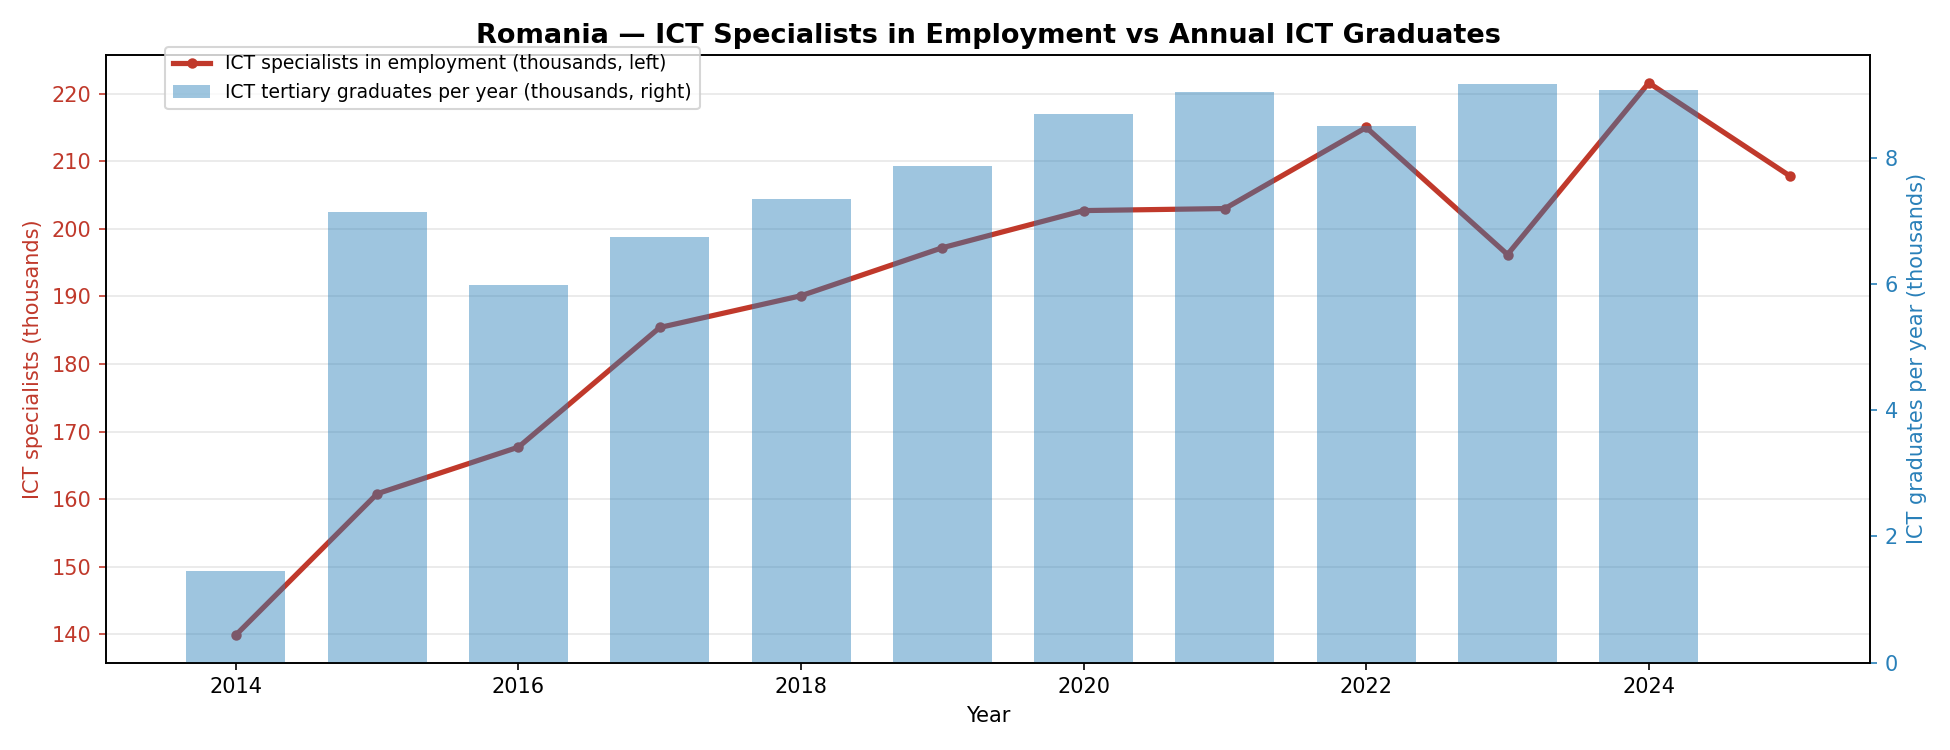
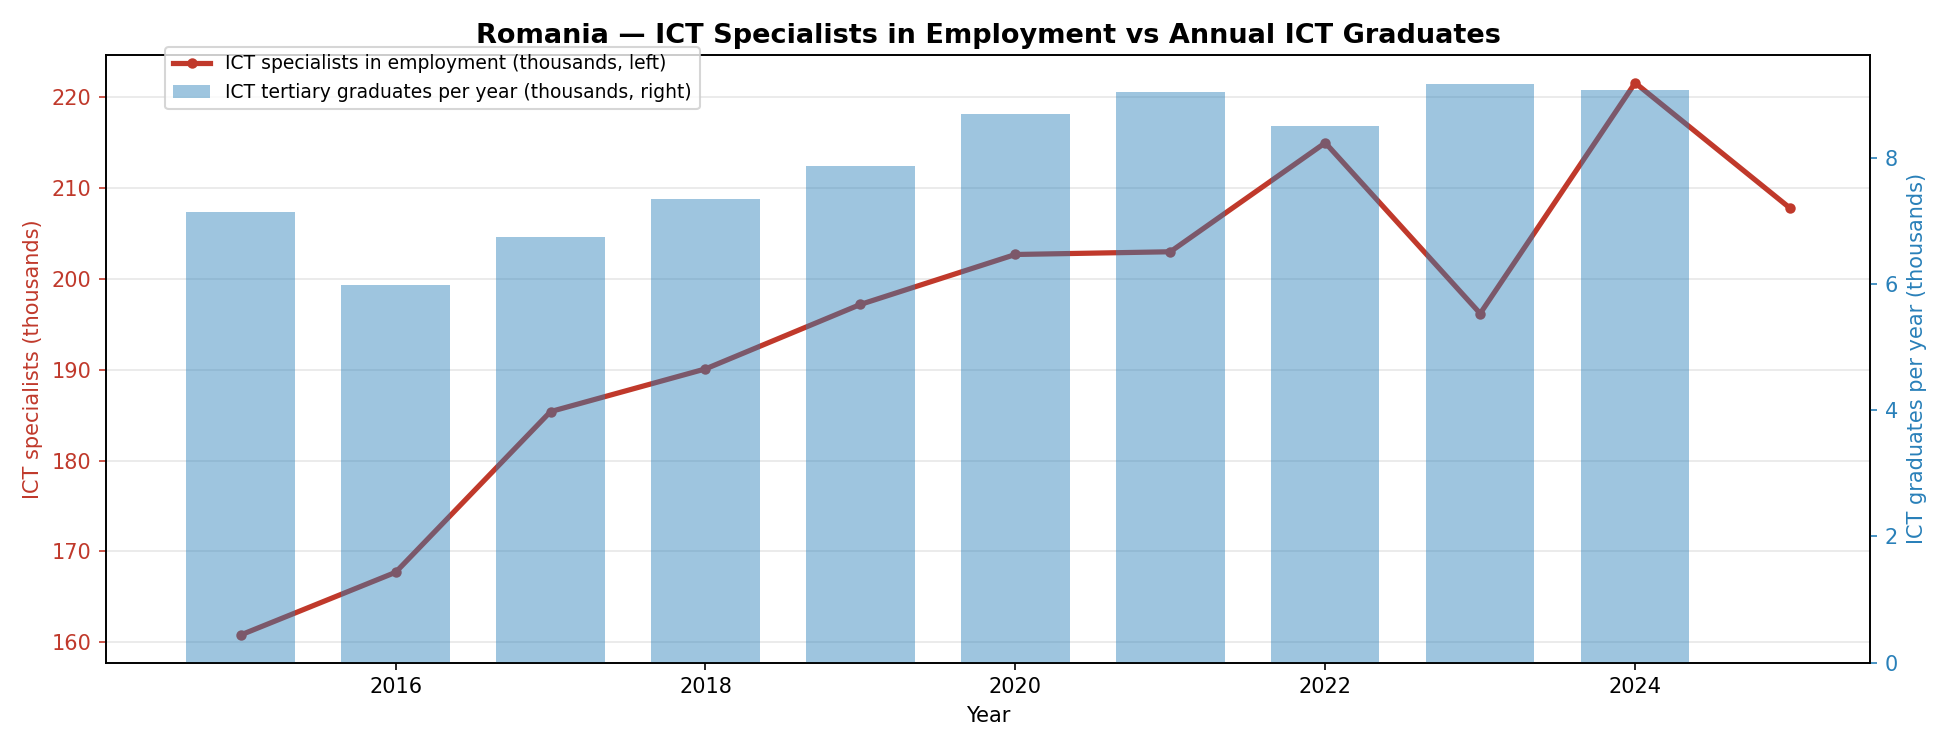
Drop 2014 from §4.3 supply/demand chart (ED7 coverage gap)
RO's 2013-2014 ICT-graduate counts in educ_uoe_grad02 (ED5-8) contain
only bachelor-level (ED6) graduates because master-level (ED7) is
reported as zero — a known Eurostat coverage gap, already flagged for
the 01b chart in §1. Starting at 2015 removes the artificial 5x jump
between 2014 and 2015 grads in 04e and aligns the chart with the start
of the reliable series. Specialists are also clipped to 2015 to keep
the two series visually aligned.

Updated §4.3 text to reframe the trend numbers off the 2015 baseline
(161k specialists → 222k by 2024, ~6-7k net new roles/yr vs ~9k grads/yr).

diff --git a/it-romania/04_wages_careers.py b/it-romania/04_wages_careers.py
@@ -233,9 +233,12 @@ df_gr = fetch_eurostat("educ_uoe_grad02", {
 })
 grads = to_year_indexed(df_gr)["RO"].dropna() / 1000.0   # to thousands
 
-# Use 2014+ to avoid the pre-2015 series-break low values
-grads = grads[grads.index >= 2014]
-spec_ths = spec_ths[spec_ths.index >= 2014]
+# Start at 2015: RO ICT-grads 2013-2014 contain only bachelor-level (ED6);
+# master-level (ED7) is reported as zero, a Eurostat coverage gap. The
+# 5x jump between 2014 and 2015 is an artefact of that gap, not real
+# supply growth, so drop those points (same treatment as 01b chart).
+grads = grads[grads.index >= 2015]
+spec_ths = spec_ths[spec_ths.index >= 2015]
 
 fig, ax = plt.subplots(figsize=(13, 5))
 ax2 = ax.twinx()

diff --git a/it-romania/report.md b/it-romania/report.md
@@ -130,11 +130,11 @@ The legacy explanation — the Cold-War-era technical universities did not disco
 Two different headcount figures appear in this report and it is worth distinguishing them before reading the chart below:
 
 - **ICT-sector employment** (NACE J62-J63, employees of dedicated software / IT-services firms — used in [§2](#2-the-takeoff-20002015)): **122,000** at the 2022 peak, 106,000 in 2023.
-- **ICT specialists in employment** (Eurostat `isoc_sks_itspt`, anyone working in an ICT job role regardless of which sector their employer is classified in — plotted in the chart below): **222,000 in 2024**, up from 140,000 in 2014.
+- **ICT specialists in employment** (Eurostat `isoc_sks_itspt`, anyone working in an ICT job role regardless of which sector their employer is classified in — plotted in the chart below): **222,000 in 2024**, up from 161,000 in 2015.
 
 The ~100,000-person gap is real: it is ICT specialists employed *outside* dedicated software firms — embedded engineers at automotive plants and Bosch / Continental R&D centres, in-house IT at banks and telecom operators, software developers inside retail and energy companies. The [§2](#2-the-takeoff-20002015) chart is sector-bounded; the [§4](#4-the-generation-it-built) chart below is occupation-bounded. Both are correct; they measure different things.
 
-Taking the wider occupation measure, Romania's ICT-specialist workforce grew by roughly 80,000 over the past decade — about **8,000 net new specialist roles per year**. Annual graduate output runs around **9,000 per year**. That gross supply almost matches net demand on paper, but it leaves no margin for normal labour churn (retirement, career switching, emigration to Germany or the UK), nor for the gross hiring that always exceeds net growth in a fast-moving sector:
+Taking the wider occupation measure, Romania's ICT-specialist workforce grew by roughly 60,000 between 2015 and 2024 — about **6,000–7,000 net new specialist roles per year**. Annual graduate output runs around **9,000 per year**. The 2,000-grad nominal surplus vanishes once you account for the gross hiring a fast-moving sector requires — replacing retirements, career-switchers, and the persistent leakage of mid-career engineers to Germany and the UK:
 
 ![04e_supply_demand_ro.png](charts/04e_supply_demand_ro.png)
 
